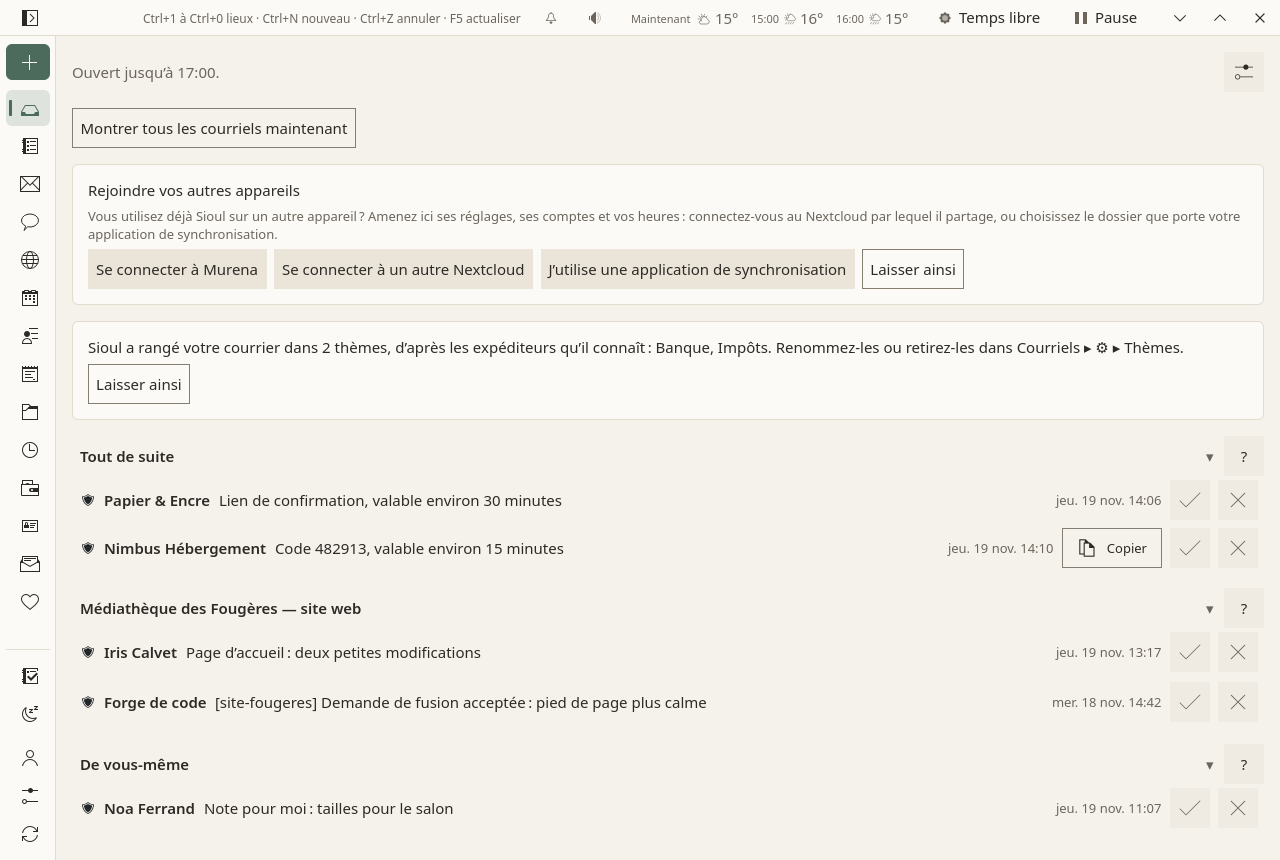
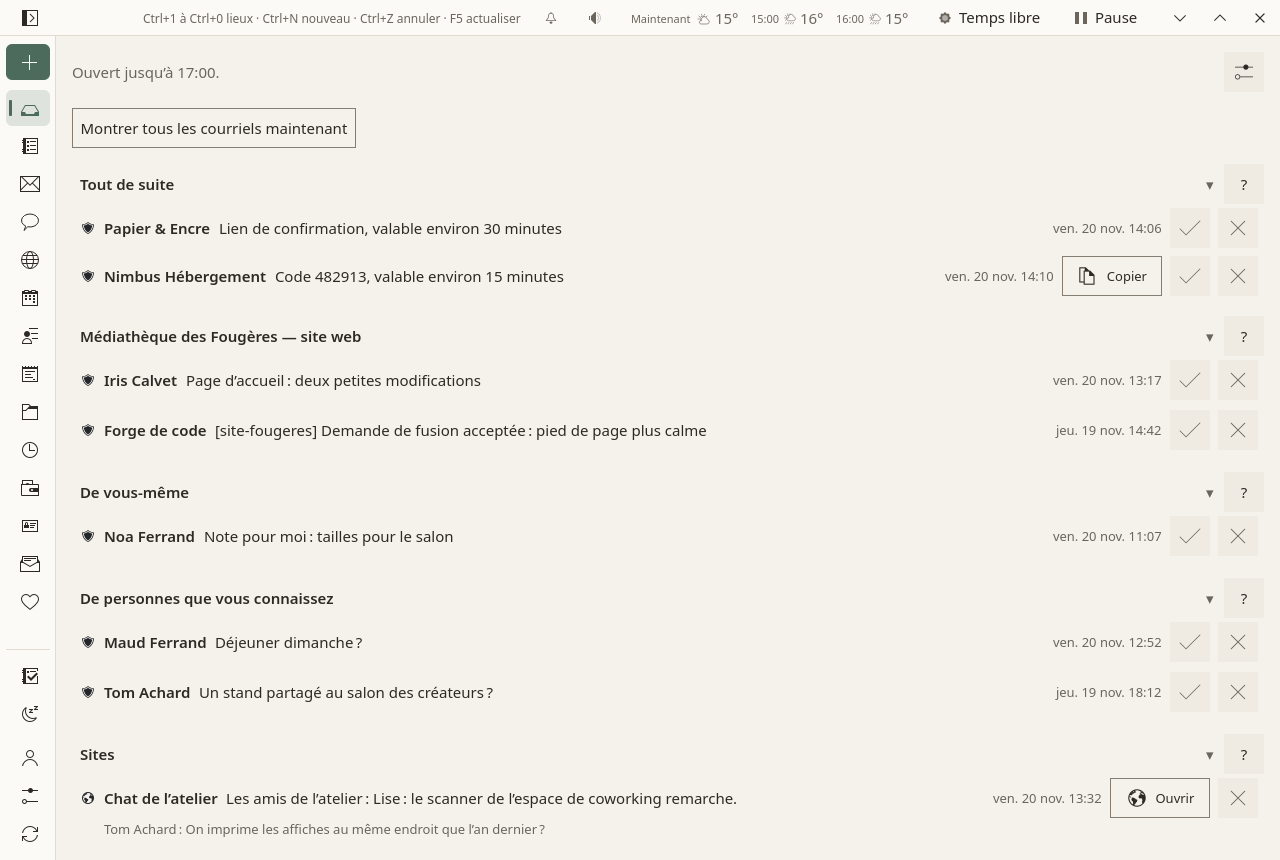
The front picture shows the Porch as it is lived with, Settings ▸ Devices shows the demo's computer as "Study laptop" from a clean build, the Porch of the first days and Settings ▸ Devices are pictured where the guide describes them, and every caption of the Porch says what it shows, in English and 

diff --git a/website/fr/docs/guide/first-steps.md b/website/fr/docs/guide/first-steps.md
@@ -11,7 +11,7 @@ Sioul parle anglais ou français, selon la langue de votre système, sauf si vou
 ## La fenêtre {#the-window}
 
 <figure markdown="span">
-  [![La fenêtre de Sioul : en haut, sur toute la largeur, sa barre de titre, la ligne d’état avec les touches, le bouton des sons, la météo, Temps libre et Pause, puis les boutons de la fenêtre ; à gauche, une étroite colonne d’icônes, Nouveau (un plus), puis les lieux, du Porche à Santé, celui affiché marqué, et trois icônes en bas (Comptes, Paramètres, Tout actualiser) ; à droite, le Porche.](../assets/screens/fr/porch.png){ loading=lazy }](../assets/screens/fr/porch.png "Ouvrir l’image en grand")
+  [![La fenêtre de Sioul : en haut, sur toute la largeur, sa barre de titre, la ligne d’état avec les touches, le bouton des sons, la météo, Temps libre et Pause, puis les boutons de la fenêtre ; à gauche, une étroite colonne d’icônes, Nouveau (un plus), puis les lieux, du Porche à Santé, celui affiché marqué, et en bas, Clore la journée de travail et Clore toute la journée, puis Comptes, Paramètres et Tout actualiser ; à droite, le Porche.](../assets/screens/fr/porch.png){ loading=lazy }](../assets/screens/fr/porch.png "Ouvrir l’image en grand")
 </figure>
 
 **En haut**, sur toute la largeur de la fenêtre, la ligne d’état est sa barre de titre. Elle dit en une phrase ce qui s’est passé en dernier. Après chaque déplacement, suppression ou envoi, « Annuler » y attend dix secondes. Pendant le calme, elle dit quand le travail revient ; une fois les heures du jour finies, elle propose de clore la journée de travail, et le soir la journée. Plus loin se trouvent les touches, [Ne pas déranger](notifications.md#do-not-disturb-on-every-device), le bouton des sons ([des sons pour se concentrer ou se reposer](tasks.md#sounds)), la météo d’un lieu que vous choisissez, et à son extrémité [**Temps libre** et **Pause**](pauses.md).
@@ -74,6 +74,11 @@ Ce qui change sur Android :
 ## Rejoindre vos autres appareils {#join-your-other-devices}
 
 Vous utilisez déjà Sioul sur un autre appareil ? Sur un appareil qui ne partage pas encore, la première carte du Porche, **Rejoindre vos autres appareils**, amène ici ses réglages, ses comptes et vos heures : **Se connecter à Murena**, ou **Se connecter à un autre Nextcloud**, ouvre dans votre navigateur la page de connexion de votre Nextcloud ; Sioul y trouve ensuite votre dossier de partage et demande votre phrase de passe, une fois. **J’utilise une application de synchronisation** mène au dossier que votre application de synchronisation transporte. Les étapes ci-dessous sont alors en grande partie faites : il reste le mot de passe de chaque compte de courriel, listé une fois la connexion faite, avec, sur Android, ce que le système n’a pas encore autorisé à Sioul et un bouton pour chaque chose ([Le partage](sharing.md#a-new-device-through-your-nextclouds-sign-in)). **Laisser ainsi** range la carte ; **Paramètres ▸ Partage** propose la même chose à tout moment.
+
+<figure markdown="span">
+  [![Le Porche des premiers jours d’un appareil : « Ouvert jusqu’à 17:00. » et Montrer tous les courriels maintenant ; la carte « Rejoindre vos autres appareils », avec Se connecter à Murena, Se connecter à un autre Nextcloud, J’utilise une application de synchronisation et Laisser ainsi ; la carte « Sioul a rangé votre courrier dans 2 thèmes, d’après les expéditeurs qu’il connaît : Banque, Impôts. », avec Laisser ainsi ; puis Tout de suite, les courriels d’un projet et De vous-même.](../assets/screens/fr/porch-first-day.png){ loading=lazy }](../assets/screens/fr/porch-first-day.png "Ouvrir l’image en grand")
+  <figcaption>Les premiers jours : rejoindre vos autres appareils, et les thèmes que Sioul a commencés.</figcaption>
+</figure>
 
 ## Ajouter vos courriels {#add-your-mail}
 

diff --git a/website/docs/guide/first-steps.md b/website/docs/guide/first-steps.md
@@ -11,7 +11,7 @@ Sioul speaks English and French, as your system does, unless you choose otherwis
 ## The window
 
 <figure markdown="span">
-  [![Sioul's window: across the top, its title bar, the status line with the keys, the sound button, the weather, Free time and Pause, then the window's buttons; on the left, a narrow column of icons, New (a plus), then the places from Porch to Health, the one shown marked, and three icons at the bottom (Accounts, Settings, Refresh everything); on the right, the Porch.](../assets/screens/porch.png){ loading=lazy }](../assets/screens/porch.png "Open the picture at full size")
+  [![Sioul's window: across the top, its title bar, the status line with the keys, the sound button, the weather, Free time and Pause, then the window's buttons; on the left, a narrow column of icons, New (a plus), then the places from Porch to Health, the one shown marked, and at the bottom, Close the work day and Close the whole day, then Accounts, Settings and Refresh everything; on the right, the Porch.](../assets/screens/porch.png){ loading=lazy }](../assets/screens/porch.png "Open the picture at full size")
 </figure>
 
 **At the top**, across the whole window, the status line is its title bar. It says one sentence about what happened last. After anything is moved, deleted or sent, "Undo" waits there for ten seconds. In quiet time, it says when work comes back; once the day's hours are over, it offers to close the work day, and in the evening the day. Further along are the keys, [do-not-disturb](notifications.md#do-not-disturb-on-every-device), the sound button ([sounds to focus or rest by](tasks.md#sounds)), the weather at a place you choose, and at its end [**Free time** and **Pause**](pauses.md).
@@ -74,6 +74,11 @@ What differs on Android:
 ## Join your other devices
 
 Already using Sioul on another device? On a device that does not share yet, the Porch's first card, **Join your other devices**, brings its settings, accounts and hours here: **Sign in to Murena**, or **Sign in to another Nextcloud**, opens your Nextcloud's own sign-in page in your browser; Sioul then finds your sharing folder there and asks for your passphrase, once. **I use a sync app's folder** leads to the folder your sync app carries. Then the steps below are mostly done: what is left is each mail account's password, listed once the join is done, with, on Android, what it has not allowed Sioul yet and a button for each ([Sharing](sharing.md#a-new-device-through-your-nextclouds-sign-in)). **Leave as is** puts the card away; **Settings ▸ Sharing** offers the same at any time.
+
+<figure markdown="span">
+  [![The Porch of a device's first days: "Open until 17:00." and Show all mail now; the card "Join your other devices", with Sign in to Murena, Sign in to another Nextcloud, I use a sync app's folder and Leave as is; the card "Sioul sorted your mail into 2 topics, from the senders it knows: Bank, Taxes.", with Leave as is; then Right now, a project's mail and From yourself.](../assets/screens/porch-first-day.png){ loading=lazy }](../assets/screens/porch-first-day.png "Open the picture at full size")
+  <figcaption>The first days: joining your other devices, and the topics Sioul started.</figcaption>
+</figure>
 
 ## Add your mail
 

diff --git a/website/fr/docs/guide/porch.md b/website/fr/docs/guide/porch.md
@@ -9,7 +9,7 @@ description: "Le Porche, où les nouveaux courriels attendent dans Sioul : vé
 Le Porche est l’endroit où les nouveaux courriels de toutes vos adresses attendent que vous regardiez. Avant que rien ne s’affiche, Sioul vérifie chaque courriel, authentique ou falsifié, et le range dans une file selon qui l’a écrit et à quoi il sert : les personnes que vous connaissez, quelqu’un de nouveau en attente de votre accord, un projet, les infolettres, ce qui est mis de côté. Il ouvre aux heures que vous choisissez et reste silencieux en dehors, tandis que les codes et les liens que vous venez de demander à un site arrivent tout de suite. Chaque nouveauté est une ligne que vous pouvez marquer comme lue ou écarter, sur tous vos appareils à la fois. Rien n’est compté devant vous, et rien n’est supprimé.
 
 <figure markdown="span">
-  [![Le Porche aux heures de travail. En haut, « Ouvert jusqu’à 17:00. » et ses réglages, Montrer tous les courriels maintenant en dessous ; la carte pour rejoindre vos autres appareils ; puis ses sections, chacune un titre avec son « ? » et son chevron : Tout de suite, un code d’un expéditeur vérifié avec Copier ; les courriels d’un projet ; les personnes que vous connaissez ; De votre téléphone ; Sites ; Argent, chaque paiement avec son montant à droite ; chaque ligne avec Marquer comme lu et Écarter à côté.](../assets/screens/fr/porch.png){ loading=lazy }](../assets/screens/fr/porch.png "Ouvrir l’image en grand")
+  [![Le Porche aux heures de travail. En haut, « Ouvert jusqu’à 17:00. » et ses réglages, Montrer tous les courriels maintenant en dessous ; puis ses sections, chacune un titre avec son chevron et son « ? » : Tout de suite, un lien de confirmation et un code d’expéditeurs vérifiés, le code avec Copier ; les courriels d’un projet ; De vous-même ; De personnes que vous connaissez ; Sites, les nouvelles d’une discussion avec Ouvrir ; chaque courriel avec Marquer comme lu et Écarter à côté.](../assets/screens/fr/porch.png){ loading=lazy }](../assets/screens/fr/porch.png "Ouvrir l’image en grand")
   <figcaption>Les codes en haut, puis chaque section, une ligne par nouveauté.</figcaption>
 </figure>
 

diff --git a/website/fr/docs/guide/sharing.md b/website/fr/docs/guide/sharing.md
@@ -146,6 +146,11 @@ Sur la carte d’un autre appareil que celui-ci : **Le compter de nouveau** po
 
 Tant que cet appareil ne partage pas, l’onglet le liste seul. Son nom et ce à quoi il sert peuvent tout de même être dits.
 
+<figure markdown="span">
+  [![Paramètres ▸ Appareils : « Vos appareils » et sa phrase ; « Cet appareil ne partage pas avec vos autres appareils : il est donc le seul de la liste. Le partage se met en place dans Paramètres ▸ Partage. », avec un bouton vers Partage ; puis la carte de cet appareil : son nom, Portable du bureau, avec Cet appareil et le nom que lui donne son système ; Un ordinateur ; « Utilisé en ce moment. » ; quand il a été ouvert pour la dernière fois ; « Cet appareil ne partage pas. » ; la version de son Sioul ; Travail, Vos démarches et Loisirs, aucun coché, « Tout arrive ici » ; Renommer… et Ce qu’est cet appareil. En dessous, « Ce qui arrive, et quand » : pour cet appareil, un choix pour le travail, les démarches, les loisirs, les repas et le sommeil, puis « En ce moment, le travail jusqu’à 17:00 : le travail arrive ici. »](../assets/screens/fr/settings-devices.png){ loading=lazy }](../assets/screens/fr/settings-devices.png "Ouvrir l’image en grand")
+  <figcaption>Chaque appareil : son nom, ce qu’il est, son Sioul, ce à quoi il sert.</figcaption>
+</figure>
+
 Sur un ordinateur, `sioul devices` écrit le même tableau dans un terminal, avec ce qui arrive sur chaque appareil à chaque moment, et `sioul devices --json` le donne en données ; `sioul devices for` et `sioul devices at` disent à quoi sert un appareil ([À quoi sert chaque appareil](hours.md#what-each-device-is-for)). Tant que la fenêtre de Sioul est fermée, il dit les autres appareils tels que la fenêtre les a vus pour la dernière fois, et quand c’était.
 
 ## Des appareils sur des versions différentes de Sioul {#devices-on-different-versions}

diff --git a/website/docs/guide/porch.md b/website/docs/guide/porch.md
@@ -9,7 +9,7 @@ description: The Porch, where new mail waits in Sioul - checked, sorted into lan
 The Porch is where new mail from every address waits until you look. Before anything is shown, Sioul checks each message, genuine or forged, and sorts it into a lane by who wrote it and what it is for: people you know, someone new waiting in the screener, a project, newsletters, what is set aside. It opens in the hours you choose and stays quiet outside them, while the codes and links you just asked a site for come at once. Each new thing is a row you can mark read or dismiss, on every device at once. Nothing is counted at you, and nothing is deleted.
 
 <figure markdown="span">
-  [![The Porch in working hours. At the top, "Open until 17:00." and its settings, Show all mail now under them; the card to join your other devices; then its sections, each a title with its "?" and its chevron: Right now, a code from a verified sender with Copy; a project's mail; the people you know; From your phone; Sites; Money, each payment with its amount on the right; each row with Mark read and Dismiss beside it.](../assets/screens/porch.png){ loading=lazy }](../assets/screens/porch.png "Open the picture at full size")
+  [![The Porch in working hours. At the top, "Open until 17:00." and its settings, Show all mail now under them; then its sections, each a title with its chevron and its "?": Right now, a confirmation link and a code from verified senders, the code with Copy; a project's mail; From yourself; From people you know; Sites, a chat's news with Open; each message with Mark read and Dismiss beside it.](../assets/screens/porch.png){ loading=lazy }](../assets/screens/porch.png "Open the picture at full size")
   <figcaption>Codes on top, then each section, a row per new thing.</figcaption>
 </figure>
 

diff --git a/website/docs/guide/sharing.md b/website/docs/guide/sharing.md
@@ -146,6 +146,11 @@ On the card of a device other than this one: **Count it again** for one you said
 
 While this device does not share, the tab lists it alone. Its name and what it is for can still be said.
 
+<figure markdown="span">
+  [![Settings ▸ Devices: "Your devices" and its sentence; "This device does not share with your other devices, so it is the only one listed. Settings ▸ Sharing sets it up.", with a button to Sharing; then this device's card: its name, Study laptop, with This device and the name its system gives it; A computer; "In use now."; when it was last opened; "This device does not share."; the version of its Sioul; Work, Your admin and Leisure, none ticked, "Everything comes here"; Rename… and What this device is. Under it, "What comes forward, and when": for this device, a choice for work, admin, leisure, meals and sleep, then "Now, work until 17:00: work comes here."](../assets/screens/settings-devices.png){ loading=lazy }](../assets/screens/settings-devices.png "Open the picture at full size")
+  <figcaption>Each device: its name, what it is, its Sioul, what it is for.</figcaption>
+</figure>
+
 On a computer, `sioul devices` prints the same table in a terminal, with what comes forward on each device at each time, and `sioul devices --json` gives it as data; `sioul devices for` and `sioul devices at` say what a device is for ([What each device is for](hours.md#what-each-device-is-for)). While Sioul's window is closed, it says the other devices as the window last saw them, and when that was.
 
 ## Devices on different versions of Sioul {#devices-on-different-versions}

diff --git a/website/fr/docs/guide/getting-started.md b/website/fr/docs/guide/getting-started.md
@@ -22,7 +22,7 @@ Vos données restent les vôtres d’un bout à l’autre. Vos courriels, vos ag
 [À quoi sert Sioul, et pour qui](../index.md)
 
 <figure markdown="span">
-  [![Le Porche aux heures de travail. En haut, « Ouvert jusqu’à 17:00. » et ses réglages, Montrer tous les courriels maintenant en dessous ; la carte pour rejoindre vos autres appareils ; puis ses sections, chacune un titre avec son « ? » et son chevron : Tout de suite, un code d’un expéditeur vérifié avec Copier ; les courriels d’un projet ; les personnes que vous connaissez ; De votre téléphone ; Sites ; Argent, chaque paiement avec son montant à droite ; chaque ligne avec Marquer comme lu et Écarter à côté.](../assets/screens/fr/porch.png){ loading=lazy }](../assets/screens/fr/porch.png "Ouvrir l’image en grand")
+  [![Le Porche aux heures de travail. En haut, « Ouvert jusqu’à 17:00. » et ses réglages, Montrer tous les courriels maintenant en dessous ; puis ses sections, chacune un titre avec son chevron et son « ? » : Tout de suite, un lien de confirmation et un code d’expéditeurs vérifiés, le code avec Copier ; les courriels d’un projet ; De vous-même ; De personnes que vous connaissez ; Sites, les nouvelles d’une discussion avec Ouvrir ; chaque courriel avec Marquer comme lu et Écarter à côté.](../assets/screens/fr/porch.png){ loading=lazy }](../assets/screens/fr/porch.png "Ouvrir l’image en grand")
   <figcaption>Les codes en haut, puis chaque section, une ligne par nouveauté.</figcaption>
 </figure>
 

diff --git a/website/docs/guide/getting-started.md b/website/docs/guide/getting-started.md
@@ -22,7 +22,7 @@ Your data stays yours throughout. Your mail, calendars and contacts stay on your
 [What Sioul is for, and for whom](../index.md)
 
 <figure markdown="span">
-  [![The Porch in working hours. At the top, "Open until 17:00." and its settings, Show all mail now under them; the card to join your other devices; then its sections, each a title with its "?" and its chevron: Right now, a code from a verified sender with Copy; a project's mail; the people you know; From your phone; Sites; Money, each payment with its amount on the right; each row with Mark read and Dismiss beside it.](../assets/screens/porch.png){ loading=lazy }](../assets/screens/porch.png "Open the picture at full size")
+  [![The Porch in working hours. At the top, "Open until 17:00." and its settings, Show all mail now under them; then its sections, each a title with its chevron and its "?": Right now, a confirmation link and a code from verified senders, the code with Copy; a project's mail; From yourself; From people you know; Sites, a chat's news with Open; each message with Mark read and Dismiss beside it.](../assets/screens/porch.png){ loading=lazy }](../assets/screens/porch.png "Open the picture at full size")
   <figcaption>Codes on top, then each section, a row per new thing.</figcaption>
 </figure>
 

diff --git a/website/docs/index.md b/website/docs/index.md
@@ -32,7 +32,7 @@ Some things come at once: the code you just asked a website for, a dose, a call 
 Most software lets each app decide when it may interrupt you. Sioul turns that around: you set the rules once, and they hold for your mail, calls, messages, sites and reminders. [What reaches you, and when](guide/notifications.md)
 
 <figure markdown="span">
-  [![Sioul's window. On the left, the places, one icon each. On the right, the Porch, open until 17:00: a sentence on what came, the card to join your other devices, a line about money, the paper letters, a confirmation link and a one-time code with its Copy button, then a chat's news.](assets/screens/porch.png){ loading=lazy }](assets/screens/porch.png "Open the picture at full size")
+  [![Sioul's window. On the left, the places, one icon each. On the right, the Porch, open until 17:00: a confirmation link and a one-time code with its Copy button, then the mail of a project, from yourself and from people you know, then a chat's news.](assets/screens/porch.png){ loading=lazy }](assets/screens/porch.png "Open the picture at full size")
   <figcaption>The Porch: what came in waits for the hours you chose; the codes you just asked for come at once.</figcaption>
 </figure>
 

diff --git a/README.md b/README.md
@@ -20,7 +20,7 @@ A letter from the tax office, the task it asks for, the appointment, the documen
 
 **Website and user guide: [sioul.aurelienpierre.com](https://sioul.aurelienpierre.com/)**
 
-![Sioul's window: the list of places on the left (Porch, Tasks, Mail, Sites, Agenda, Contacts, Notes, Projects, Time, Budgets, Papers, Health); on the right, the Porch, with a one-time code and its Copy button on top, a chat's news, then the new mail sorted into lanes.](website/docs/assets/screens/porch.png)
+![Sioul's window: the places on the left, one icon each, from the Porch to Health; on the right, the Porch, open until 17:00, with a confirmation link and a one-time code with its Copy button on top, then the new mail sorted into lanes (a project, from yourself, from people you know) and a chat's news.](website/docs/assets/screens/porch.png)
 
 ## You decide what gets through
 
